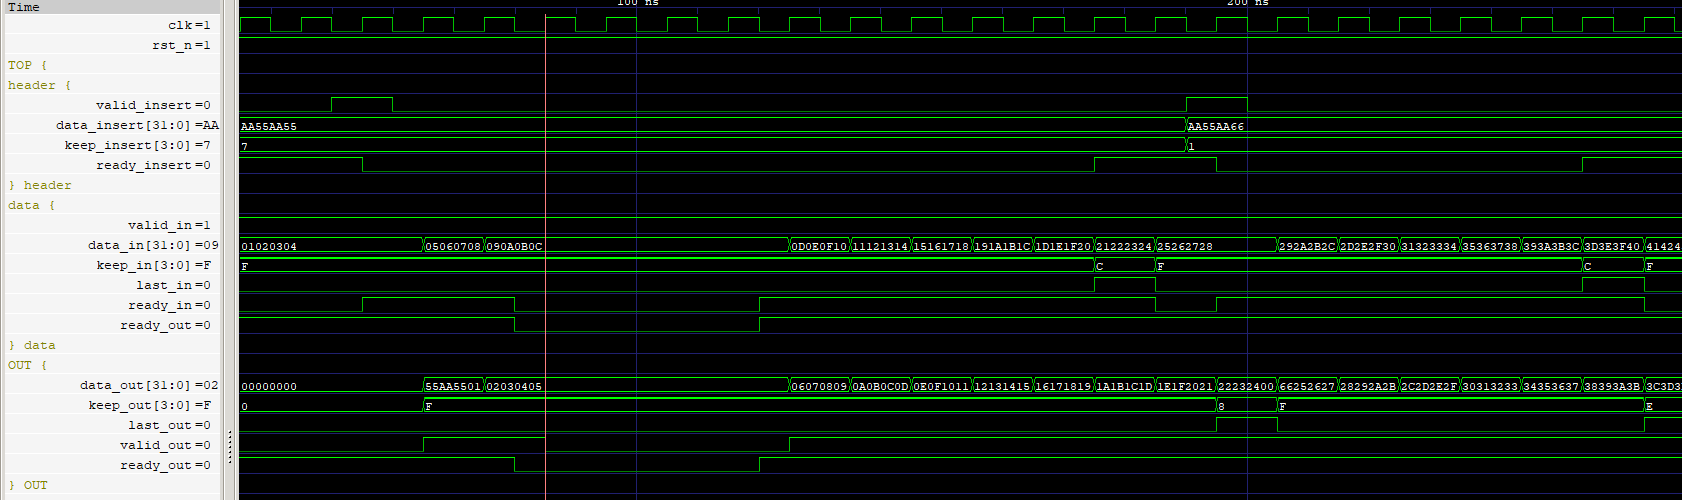
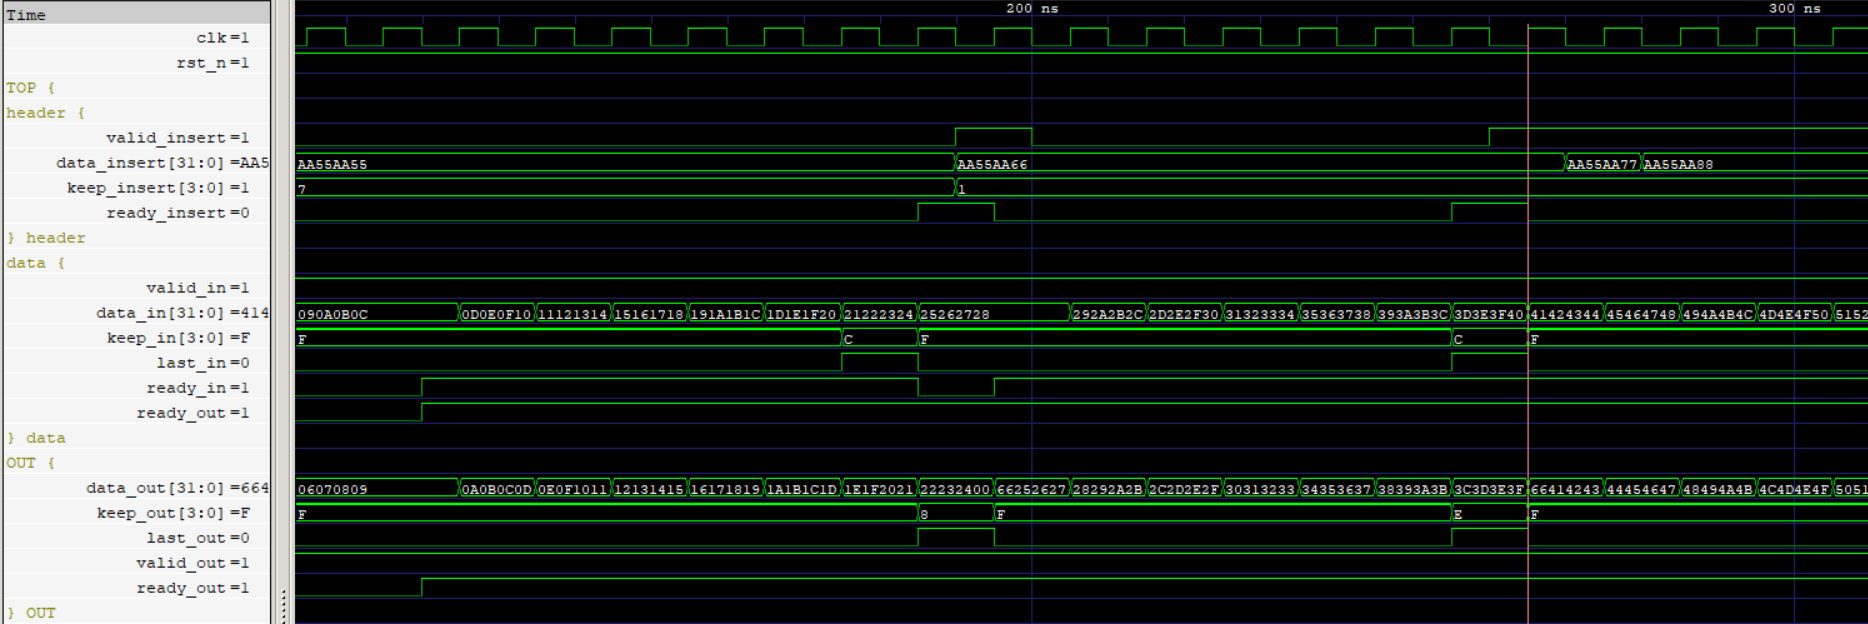
Update code.

diff --git a/README.md b/README.md
@@ -1,9 +1,10 @@
-一个周期延迟输出
+一个周期延迟输出（时钟沿输出header和第一个data的部分，每个时钟周期输出当前data的一部分，剩余在下个周期输出）
 
 manual 为手动构造测试例的仿真结果：
-- data先于head有效
-- 中途ready_out拉低，逐级反压
 - 无气泡传输
+- 中途ready_out拉低，逐级反压（ready_out直接以组合逻辑传递拉低ready_in）
+- last_out与last_in同周期以及last_out在last_in下个周期
 
 
-random为随机测试例仿真结果
+
+random为随机测试例仿真结果：
